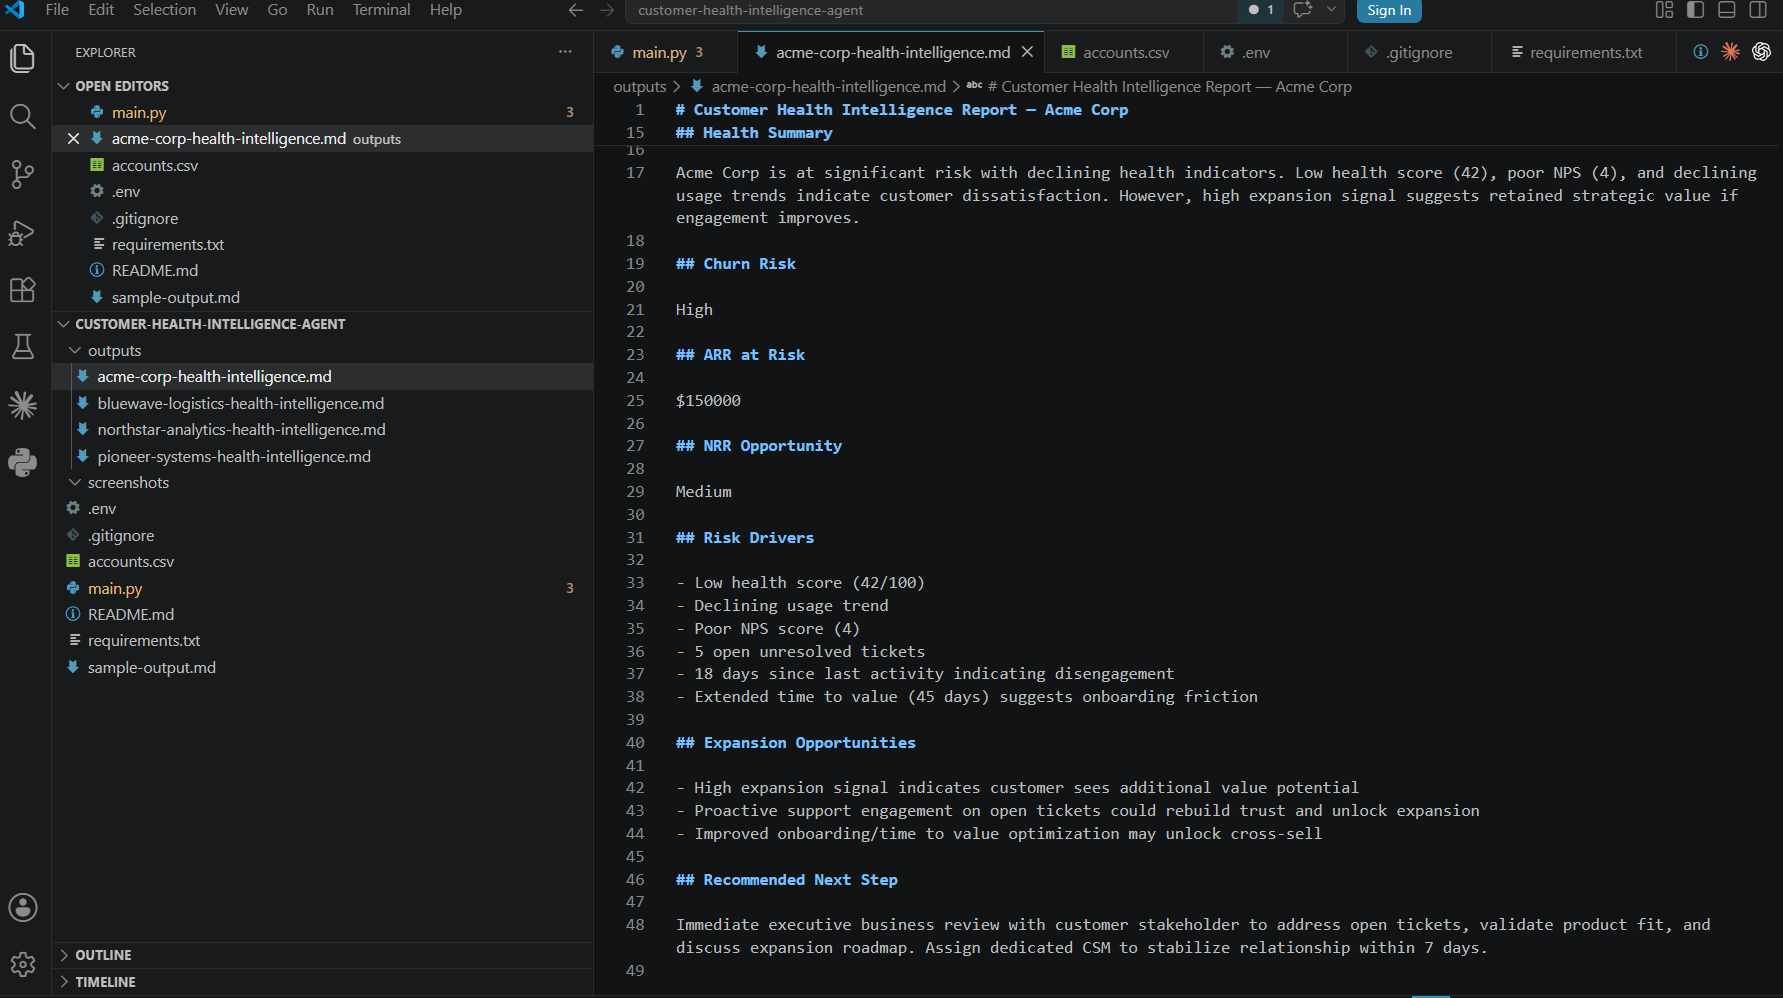
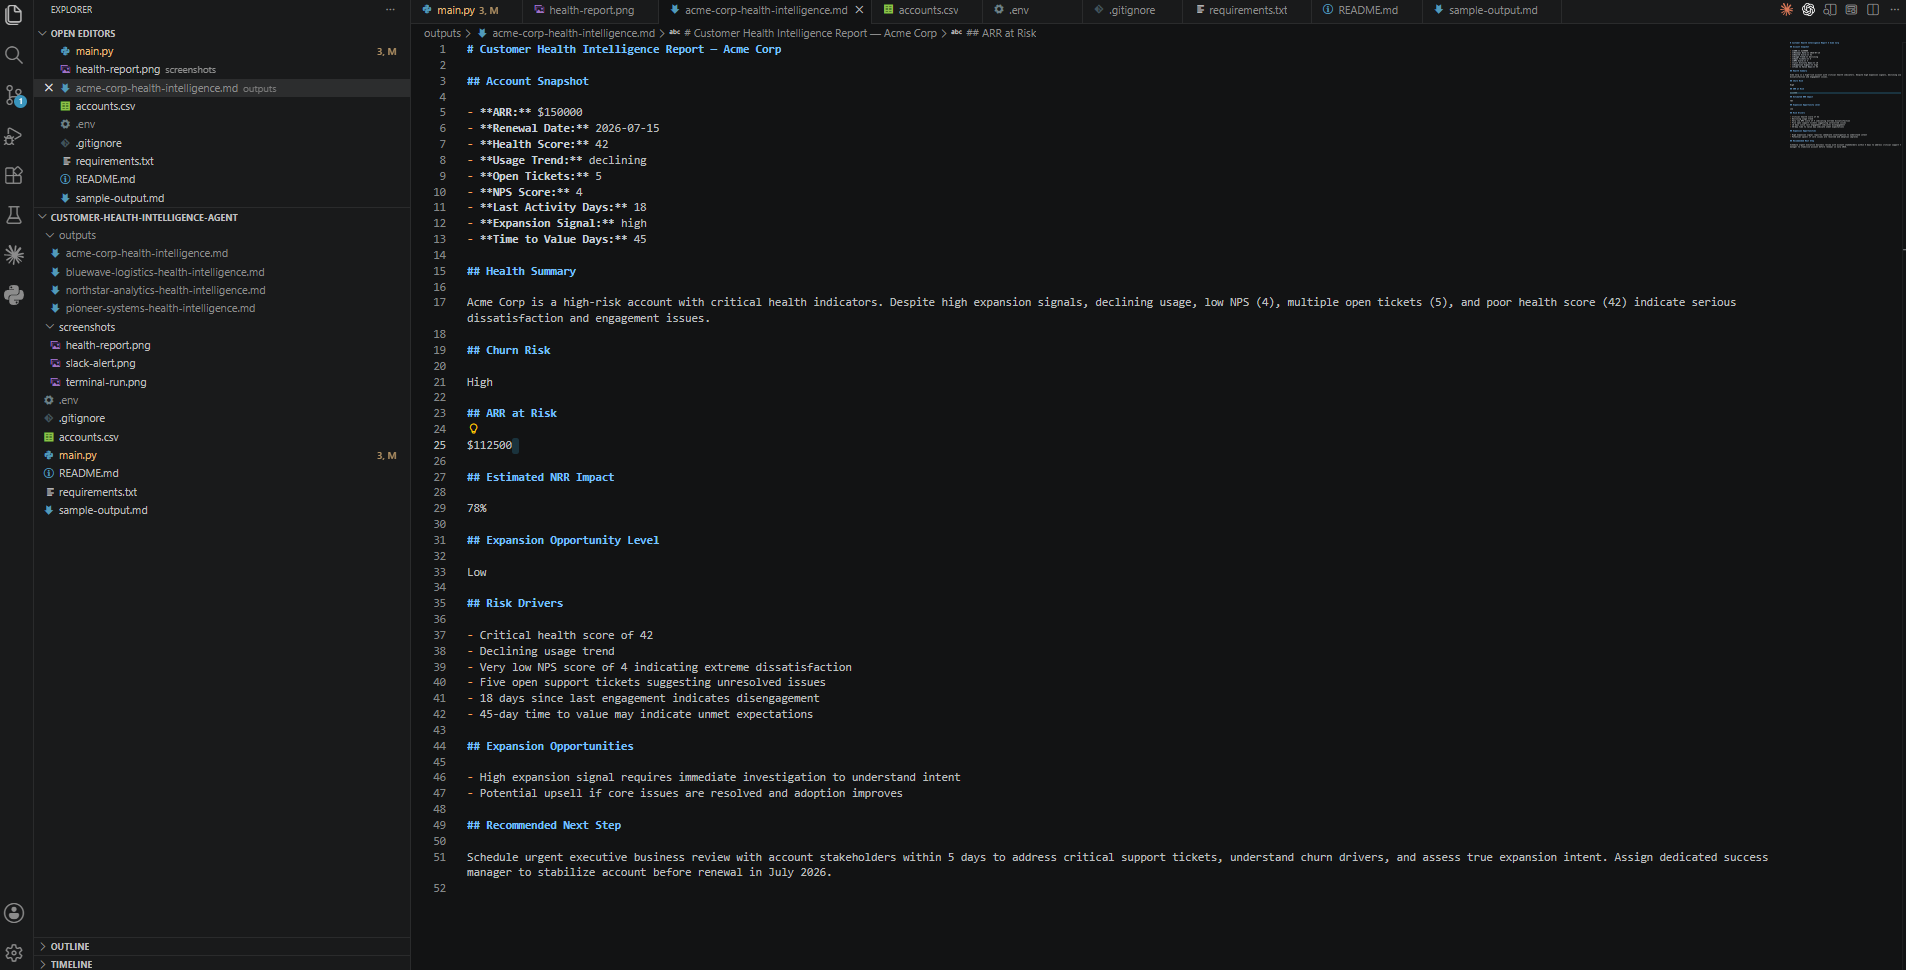
Refine NRR metric and update revenue intelligence screenshots

diff --git a/main.py b/main.py
@@ -41,12 +41,20 @@ Use this exact structure:
   "health_summary": "short customer health summary",
   "churn_risk": "Low or Medium or High",
   "arr_at_risk": 0,
-  "nrr_opportunity": "Low or Medium or High",
+  "estimated_nrr_impact": 100,
+  "expansion_opportunity_level": "Low or Medium or High",
   "risk_drivers": ["driver 1", "driver 2"],
   "expansion_opportunities": ["opportunity 1", "opportunity 2"],
   "recommended_next_step": "specific next action",
   "executive_alert": true
 }}
+
+Guidance:
+- estimated_nrr_impact should be a realistic percentage.
+- Below 100 means contraction or churn risk.
+- 100 means flat retention.
+- 105-110 means healthy expansion potential.
+- 110+ means strong expansion potential.
 
 Account Data:
 Account Name: {row["account_name"]}
@@ -110,9 +118,13 @@ def save_markdown_report(row, result):
 
 ${result['arr_at_risk']}
 
-## NRR Opportunity
+## Estimated NRR Impact
 
-{result['nrr_opportunity']}
+{result['estimated_nrr_impact']}%
+
+## Expansion Opportunity Level
+
+{result['expansion_opportunity_level']}
 
 ## Risk Drivers
 
@@ -147,7 +159,8 @@ def send_slack_alert(row, result):
 
 *⚠ Churn Risk:* {result['churn_risk']}
 *💰 ARR at Risk:* ${result['arr_at_risk']}
-*📈 NRR Opportunity:* {result['nrr_opportunity']}
+*📊 Estimated NRR Impact:* {result['estimated_nrr_impact']}%
+*📈 Expansion Opportunity:* {result['expansion_opportunity_level']}
 
 *Health Summary*
 {result['health_summary']}
@@ -171,7 +184,8 @@ def should_alert(result):
         result["executive_alert"] is True
         or result["churn_risk"] == "High"
         or result["arr_at_risk"] >= 50000
-        or result["nrr_opportunity"] == "High"
+        or result["estimated_nrr_impact"] < 100
+        or result["expansion_opportunity_level"] == "High"
     )
 
 
@@ -191,7 +205,8 @@ def main():
 
             print("Churn Risk:", result["churn_risk"])
             print("ARR at Risk:", result["arr_at_risk"])
-            print("NRR Opportunity:", result["nrr_opportunity"])
+            print("Estimated NRR Impact:", f"{result['estimated_nrr_impact']}%")
+            print("Expansion Opportunity:", result["expansion_opportunity_level"])
 
             save_markdown_report(row, result)
 

diff --git a/README.md b/README.md
@@ -1,6 +1,6 @@
 # Customer Health Intelligence Agent
 
-Claude-powered Customer Success revenue intelligence workflow that analyzes customer health, churn risk, ARR exposure, and expansion opportunities.
+Claude-powered Customer Success revenue intelligence workflow that analyzes customer health, churn risk, ARR exposure, estimated NRR impact, and expansion opportunities.
 
 ---
 
@@ -10,14 +10,15 @@ This project demonstrates how AI can support Customer Success and Revenue teams 
 
 The workflow analyzes customer account data and produces:
 
-- Health summary
-- Churn risk level
-- ARR at risk
-- NRR opportunity
-- Risk drivers
-- Expansion opportunities
-- Recommended next step
-- Slack executive alert
+- Health Summary
+- Churn Risk
+- ARR at Risk
+- Estimated NRR Impact
+- Expansion Opportunity Level
+- Risk Drivers
+- Expansion Opportunities
+- Recommended Next Step
+- Slack Executive Alert
 
 ---
 
@@ -25,13 +26,26 @@ The workflow analyzes customer account data and produces:
 
 The goal is to help SaaS teams protect and expand recurring revenue by identifying risk and opportunity earlier.
 
-This workflow is designed around core Customer Success metrics:
+This workflow is designed around the core Customer Success and revenue metrics that leaders track:
 
 - Churn
 - Net Revenue Retention (NRR)
 - Annual Recurring Revenue (ARR)
 - Health Score
 - Time-to-Value
+
+---
+
+## Revenue Metrics Modeled
+
+This workflow is designed around the revenue metrics Customer Success leaders care about most:
+
+- **Churn Risk** — Likelihood an account may contract or churn.
+- **ARR at Risk** — Revenue exposed if the account contracts or churns.
+- **Estimated NRR Impact** — Modeled retention and expansion percentage for the account.
+- **Expansion Opportunity Level** — Qualitative signal indicating upsell potential.
+- **Health Score** — Current account condition based on operational signals.
+- **Time-to-Value** — Speed at which the customer reaches measurable value.
 
 ---
 
